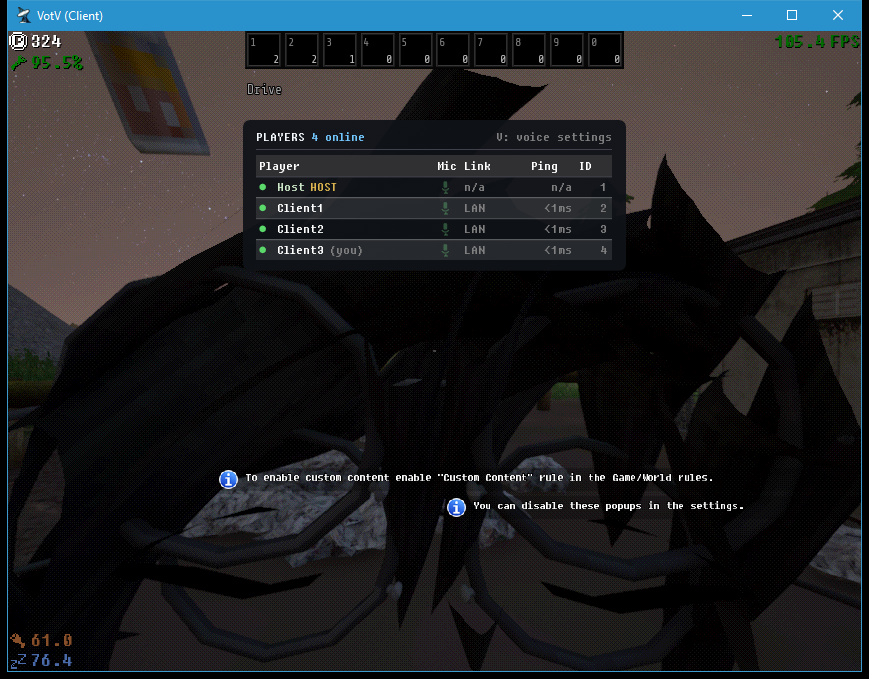
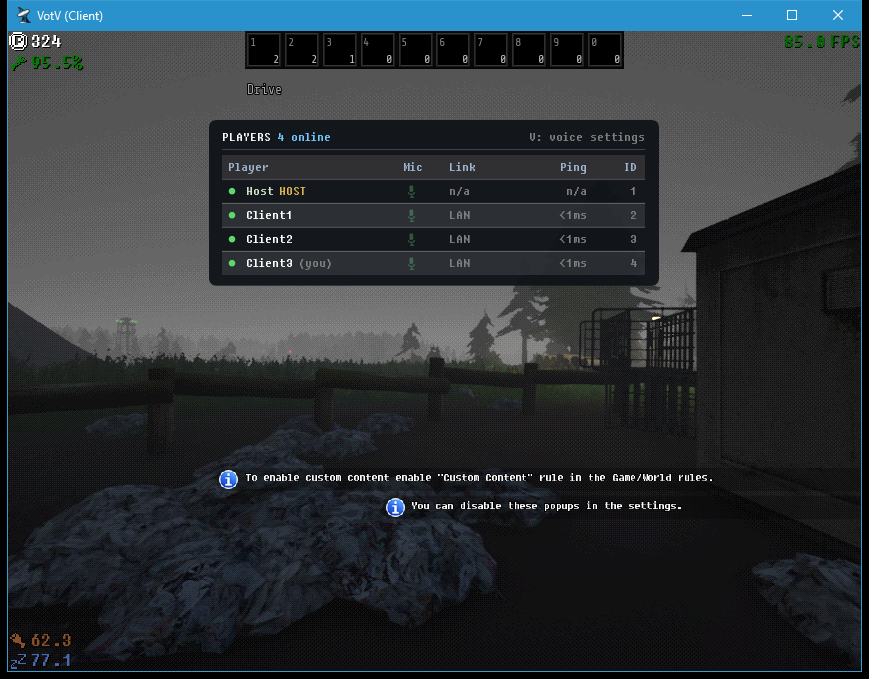
[ui] player list: headers over their OWN columns, panel roomier
The header row shipped yesterday but was never LOOKED at against the values
under it. The user did: "текст над колонками уходит на сразу несколько колонок,
криво сидит и нечетко над своей областью/колонкой. Панель чуть пошире подлиннее
надо."

Two separate causes, both real:

  ALIGNMENT. ImGui::TableHeadersRow() left-aligns every label, but Ping and ID
  render their values RIGHT-aligned -- so those two labels sat at the far left
  of their own numbers and read as belonging to the column before them. The
  header row is now hand-drawn: each label takes the SAME alignment as the data
  beneath it, so a label and its column read as one unit. TableNextRow's
  Headers flag still paints the header background; only the text is ours.

  ROOM. At 460 px the labels had less width than the values under them --
  "Mic" in a 26 px column bled into "Link" and the strip read as one run of
  words. Panel 460 -> 540; Mic 26 -> 40, Link 72 -> 84, Ping 50 -> 66, ID
  34 -> 44; cell padding 4x5 -> 8x7 for the vertical air a header row needs.
  Side effect worth having: the host's "Show in server browser" hint no longer
  clips mid-word.

Re-photographed on the shipped bytes, all four boards: every label now sits
over its own column, host and client boards identical per player. Also visible
in these frames and unchanged: Client1/Client3 plates carrying (<1ms) while the
Host plate stays bare.

Chore alongside: dropped the retired `posinfo` key from the test installs'
[…]

diff --git a/src/votv-coop/src/ui/scoreboard.cpp b/src/votv-coop/src/ui/scoreboard.cpp
@@ -59,9 +59,12 @@ void Render() {
     // Top-centre, pinned. Pivot (0.5, 0) keeps it centred regardless of width.
     ImGui::SetNextWindowPos(ImVec2(io.DisplaySize.x * 0.5f, io.DisplaySize.y * 0.14f),
                             ImGuiCond_Always, ImVec2(0.5f, 0.0f));  // upper-centre, below the top HUD
-    // 460 wide (was 300 -- truncated nicks + "LAN HOST" clipped, user round-1
-    // screenshot 2026-06-12); auto height.
-    ImGui::SetNextWindowSize(ImVec2(S(460.0f), 0.0f), ImGuiCond_Always);
+    // 540 wide, auto height. 300 -> 460 in 2026-06-12 (truncated nicks + a clipped
+    // "LAN HOST"); 460 -> 540 in 2026-07-28 once the columns got HEADERS -- at 460
+    // the labels had less room than the values under them, so "Mic" bled into
+    // "Link" and the whole strip read as one run of words (user: "текст над
+    // колонками уходит на сразу несколько колонок").
+    ImGui::SetNextWindowSize(ImVec2(S(540.0f), 0.0f), ImGuiCond_Always);
 
     // Clean translucent panel: padded, rounded, borderless, dark bg so it reads over
     // any scene. Own header (no OS-style title bar).
@@ -118,20 +121,23 @@ void Render() {
         // room so the rows are not one block of text.
         ImGui::PushStyleColor(ImGuiCol_TableRowBgAlt, ImVec4(1.0f, 1.0f, 1.0f, 0.10f));
         ImGui::PushStyleColor(ImGuiCol_TableBorderLight, ImVec4(1.0f, 1.0f, 1.0f, 0.28f));
-        ImGui::PushStyleVar(ImGuiStyleVar_CellPadding, ImVec2(S(4.0f), S(5.0f)));
+        // Roomier cells (was 4x5): with a header row above them the table needed
+        // vertical air, and the horizontal pad is what keeps each label off its
+        // neighbour's column edge.
+        ImGui::PushStyleVar(ImGuiStyleVar_CellPadding, ImVec2(S(8.0f), S(7.0f)));
         if (ImGui::BeginTable("##roster", voiceOn ? 5 : 4, tflags)) {
             ImGui::TableSetupColumn("Player", ImGuiTableColumnFlags_WidthStretch);
             // Voice state icon (v66; the user's mute-icon-on-playerlist ask).
             // Click = self: toggle mute; remote: per-player volume popup.
-            if (voiceOn) ImGui::TableSetupColumn("Mic", ImGuiTableColumnFlags_WidthFixed, S(26.0f));
+            if (voiceOn) ImGui::TableSetupColumn("Mic", ImGuiTableColumnFlags_WidthFixed, S(40.0f));
             // Connection (v131): how THIS PLAYER reaches the session -- "LAN" /
             // "DIRECT" / "RELAY", or "n/a" on the host row, whose traffic never
             // crosses a socket. Host-measured and host-published, so every board
             // shows the same value for the same player. It used to be derived
             // per viewer, which put transport on some rows and routing ("VIA
             // HOST") on others, in one column, side by side.
-            ImGui::TableSetupColumn("Link", ImGuiTableColumnFlags_WidthFixed, S(72.0f));
-            ImGui::TableSetupColumn("Ping", ImGuiTableColumnFlags_WidthFixed, S(50.0f));
+            ImGui::TableSetupColumn("Link", ImGuiTableColumnFlags_WidthFixed, S(84.0f));
+            ImGui::TableSetupColumn("Ping", ImGuiTableColumnFlags_WidthFixed, S(66.0f));
             // ID (arc A): the occupant's session number, host-issued and never
             // reused within a session. It is NOT the slot -- slots recycle, so a
             // slot number names a seat, not a person -- and it is deliberately
@@ -141,11 +147,37 @@ void Render() {
             // FAR RIGHT (user 2026-07-27). It led the row at first, which put the
             // least-scanned field where the eye lands and pushed the NAME -- the
             // thing anyone actually looks for -- off the left edge.
-            ImGui::TableSetupColumn("ID", ImGuiTableColumnFlags_WidthFixed, S(34.0f));
+            ImGui::TableSetupColumn("ID", ImGuiTableColumnFlags_WidthFixed, S(44.0f));
             // The columns had NEVER been named (user 2026-07-27: "the rows are
-            // not even named properly") -- TableSetupColumn only declares them;
-            // without this call the labels are never drawn.
-            ImGui::TableHeadersRow();
+            // not even named properly"). TableSetupColumn only DECLARES a name;
+            // something has to draw it.
+            //
+            // Hand-drawn rather than ImGui::TableHeadersRow(), because that helper
+            // left-aligns EVERY label: "Ping" and "ID" then sat on the left of the
+            // right-aligned numbers underneath, so no label was clearly over its own
+            // value (user 2026-07-28: "нечетко над своей областью/колонкой"). Each
+            // header here takes the SAME alignment as the data below it, so a
+            // label and its column read as one unit. TableNextRow's Headers flag
+            // still paints the header background; we only replace the text.
+            {
+                const ImVec4 hdrCol(0.62f, 0.71f, 0.82f, 1.0f);
+                int hc = 0;
+                auto headerCell = [&](const char* label, bool rightAlign) {
+                    ImGui::TableSetColumnIndex(hc++);
+                    if (rightAlign) {
+                        const float tw = ImGui::CalcTextSize(label).x;
+                        const float cw = ImGui::GetContentRegionAvail().x;
+                        if (cw > tw) ImGui::SetCursorPosX(ImGui::GetCursorPosX() + (cw - tw));
+                    }
+                    ImGui::TextColored(hdrCol, "%s", label);
+                };
+                ImGui::TableNextRow(ImGuiTableRowFlags_Headers);
+                headerCell("Player", false);
+                if (voiceOn) headerCell("Mic", false);
+                headerCell("Link", false);
+                headerCell("Ping", true);
+                headerCell("ID", true);
+            }
             for (int i = 0; i < s.count; ++i) {
                 const coop::roster::Row& r = s.rows[i];
                 const char* nick = r.nick[0] ? r.nick : (r.isLocal ? "Player" : "Remote player");
